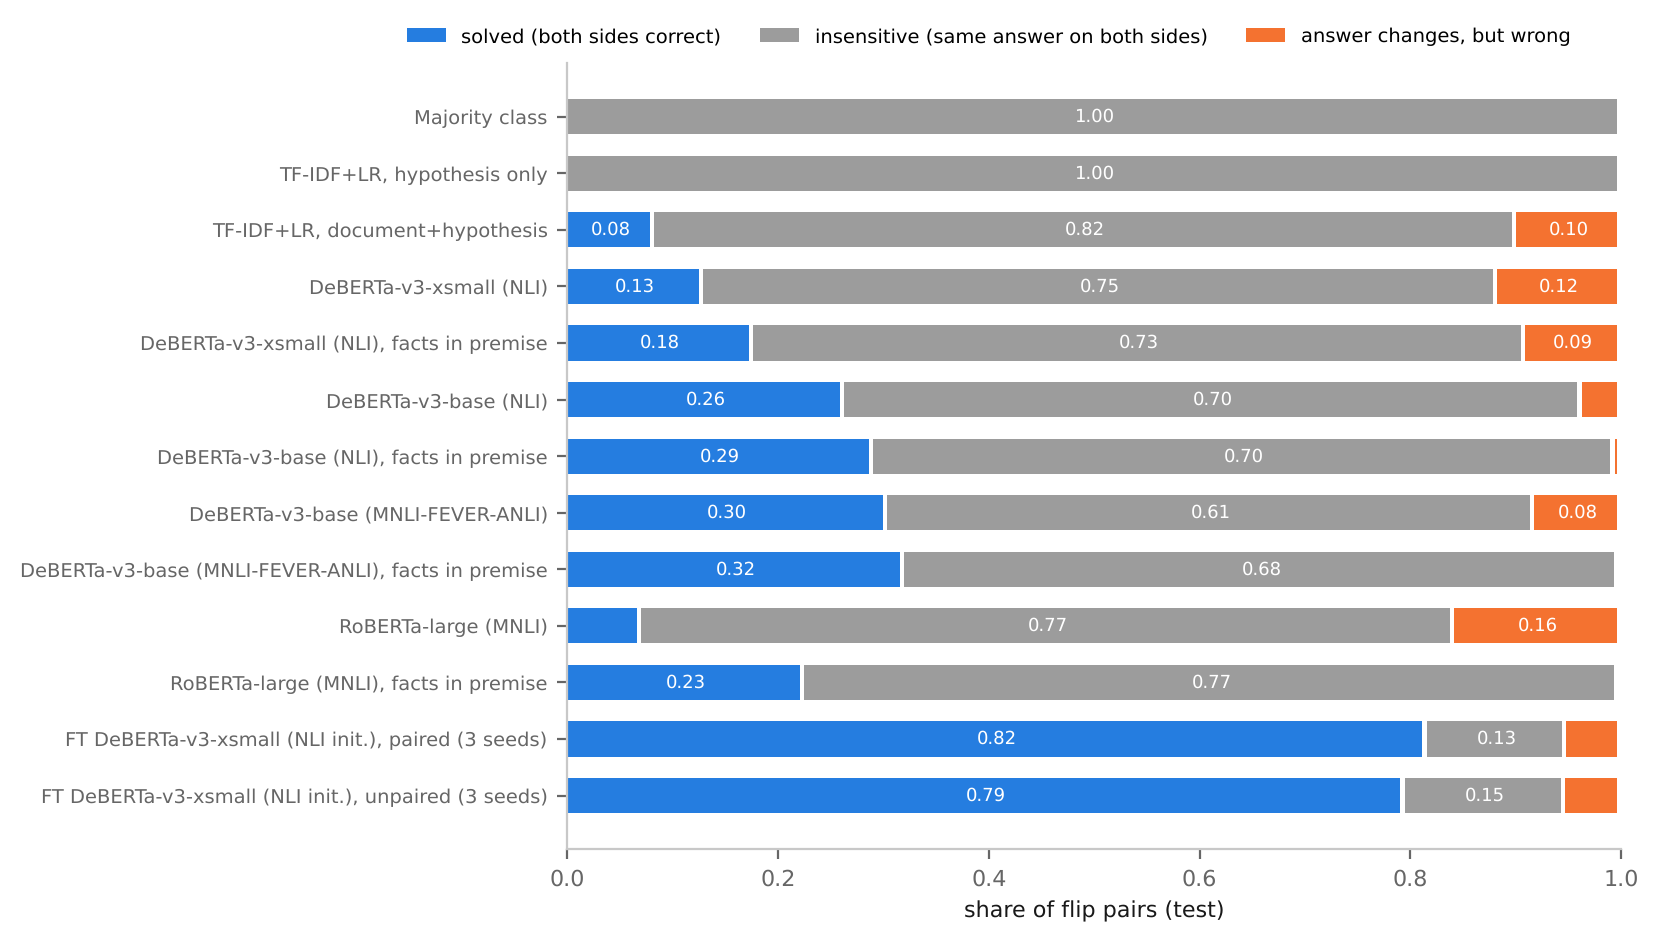
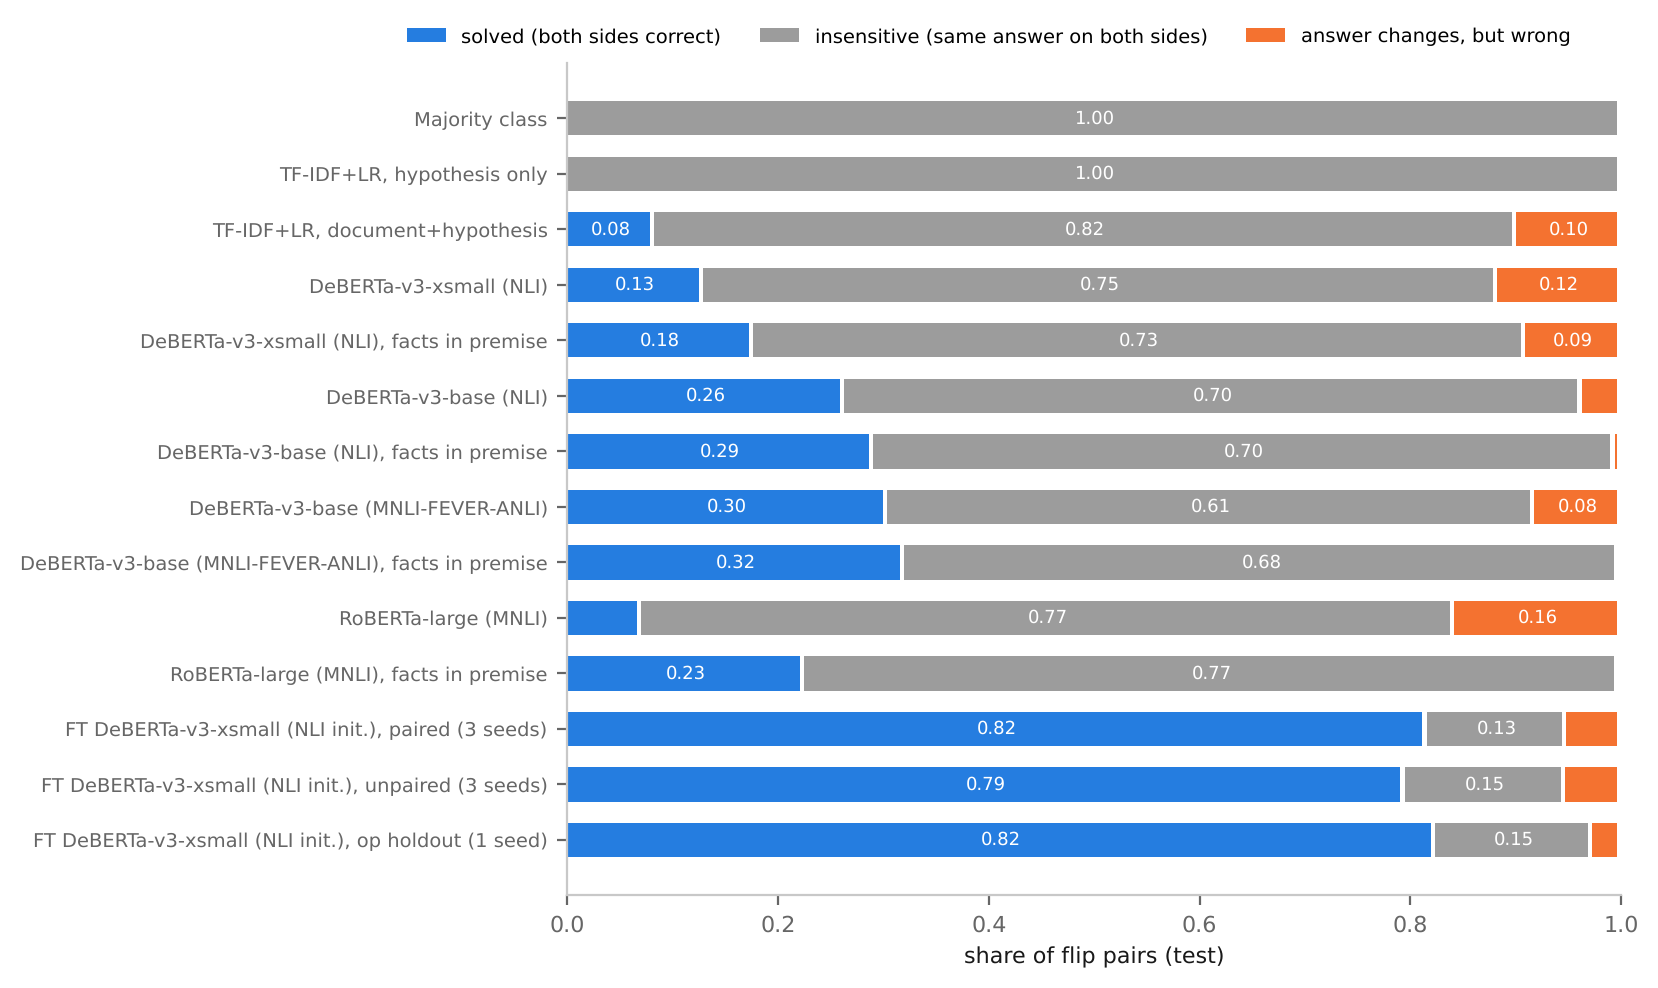
Extended analysis: operator hold-out section wording; regenerate with op_holdout_s0
Claude-Session: https://claude.ai/code/session_01GGpeb3aQtBq4JH6BHTfvnv

diff --git a/scripts/analyze_extended.py b/scripts/analyze_extended.py
@@ -401,9 +401,9 @@ L.append("")
 ho = [g for g in GROUPS if g.endswith("_op_holdout")]
 if ho:
     L += ["## 4. Operator hold-out (preregistered ablation)", "",
-          "Training excludes xref_redirect and date_cross pairs. Compared with the full-size paired condition is not "
-          "possible (different training size); the comparison below is with the unpaired and paired groups of the "
-          "same model, on the held-out and on the seen operators.", "",
+          "Training uses all training pairs except xref_redirect and date_cross (4,200 items), so it is not "
+          "size-matched with the paired and unpaired conditions (2,400 items), which did see both operators. The "
+          "question is whether sensitivity to an unseen edit type transfers from the other edit types.", "",
           "| Group | Seeds | xref_redirect | date_cross | Other flip operators (mean) |", "|---|---|---|---|---|"]
     for g in sorted(GROUPS):
         if not g.startswith(ho[0].replace("_op_holdout", "")):

diff --git a/results/EXTENDED_ANALYSIS.md b/results/EXTENDED_ANALYSIS.md
@@ -27,6 +27,7 @@ Difference = flip-pair accuracy(operator) − flip-pair accuracy(negation). Supp
 | zeroshot_nli-deberta-v3-base | -0.863 [-0.937, -0.780] | -0.863 [-0.937, -0.782] | -0.875 [-0.946, -0.798] | -0.875 [-0.946, -0.798] | yes |
 | zeroshot_DeBERTa-v3-base-mnli-fever-anli | -0.512 [-0.642, -0.370] | -0.662 [-0.772, -0.542] | -0.738 [-0.833, -0.636] | -0.738 [-0.833, -0.635] | yes |
 | zeroshot_roberta-large-mnli | +0.000 [+0.000, +0.000] | +0.000 [+0.000, +0.000] | +0.000 [+0.000, +0.000] | +0.000 [+0.000, +0.000] | no |
+| ft_nli-deberta-v3-xsmall_op_holdout | -0.050 [-0.106, -0.011] | -0.963 [-1.000, -0.916] | -0.238 [-0.338, -0.147] | -0.188 [-0.274, -0.103] | yes |
 | ft_nli-deberta-v3-xsmall_paired | -0.079 [-0.119, -0.046] | -0.138 [-0.187, -0.090] | -0.488 [-0.577, -0.402] | -0.333 [-0.414, -0.256] | yes |
 | ft_nli-deberta-v3-xsmall_unpaired | -0.062 [-0.104, -0.025] | -0.158 [-0.213, -0.105] | -0.542 [-0.626, -0.456] | -0.379 [-0.466, -0.292] | yes |
 
@@ -68,6 +69,7 @@ Dev and test are independent samples (independent bootstraps). Reserved vs. seen
 
 | Group | Dev acc. | Test acc. | Dev − test | Seen − reserved (raw) | Seen − reserved (operator-stratified) |
 |---|---|---|---|---|---|
+| ft_nli-deberta-v3-xsmall_op_holdout | 0.867 | 0.934 | -0.067 [-0.092, -0.044] | +0.012 [-0.010, +0.032] | +0.010 [-0.008, +0.026] |
 | ft_nli-deberta-v3-xsmall_paired | 0.838 | 0.904 | -0.066 [-0.091, -0.042] | +0.042 [+0.022, +0.061] | +0.038 [+0.019, +0.056] |
 | ft_nli-deberta-v3-xsmall_unpaired | 0.843 | 0.891 | -0.047 [-0.074, -0.022] | +0.041 [+0.019, +0.062] | +0.037 [+0.015, +0.057] |
 
@@ -147,6 +149,17 @@ Flip-pair accuracy by operator:
 | zeroshot_roberta-large-mnli_factsinpremise | – | 0.506 [0.487, 0.525] | 0.451 [0.429, 0.473] | 0.263 [0.240, 0.288] | 0.225 [0.198, 0.255] | 0.228 [0.200, 0.257] | 0.994 [0.985, 1.000] |
 | ft_nli-deberta-v3-xsmall_paired | 3 | 0.904 [0.893, 0.914] | 0.914 [0.905, 0.922] | 0.836 [0.819, 0.852] | 0.815 [0.793, 0.836] | 0.868 [0.847, 0.887] | 0.937 [0.921, 0.951] |
 | ft_nli-deberta-v3-xsmall_unpaired | 3 | 0.891 [0.880, 0.902] | 0.903 [0.893, 0.912] | 0.814 [0.796, 0.832] | 0.795 [0.770, 0.817] | 0.848 [0.826, 0.868] | 0.919 [0.902, 0.937] |
+| ft_nli-deberta-v3-xsmall_op_holdout | 1 | 0.934 [0.924, 0.943] | 0.942 [0.933, 0.950] | 0.874 [0.857, 0.892] | 0.824 [0.798, 0.849] | 0.851 [0.827, 0.876] | 0.975 [0.960, 0.988] |
+
+## 4. Operator hold-out (preregistered ablation)
+
+Training uses all training pairs except xref_redirect and date_cross (4,200 items), so it is not size-matched with the paired and unpaired conditions (2,400 items), which did see both operators. The question is whether sensitivity to an unseen edit type transfers from the other edit types.
+
+| Group | Seeds | xref_redirect | date_cross | Other flip operators (mean) |
+|---|---|---|---|---|
+| ft_nli-deberta-v3-xsmall_op_holdout | 1 | 0.037 [0.000, 0.084] | 0.812 [0.726, 0.897] | 0.921 |
+| ft_nli-deberta-v3-xsmall_paired | 3 | 0.862 [0.813, 0.910] | 0.667 [0.586, 0.744] | 0.810 |
+| ft_nli-deberta-v3-xsmall_unpaired | 3 | 0.842 [0.787, 0.895] | 0.621 [0.534, 0.708] | 0.785 |
 
 ## 5. How flip pairs fail (exploratory)
 
@@ -167,6 +180,7 @@ Each flip pair is either solved (both sides correct), *insensitive* (same predic
 | zeroshot_roberta-large-mnli_factsinpremise | 0.225 | 0.772 | 0.003 |
 | ft_nli-deberta-v3-xsmall_paired | 0.815 | 0.132 | 0.052 |
 | ft_nli-deberta-v3-xsmall_unpaired | 0.795 | 0.152 | 0.053 |
+| ft_nli-deberta-v3-xsmall_op_holdout | 0.824 | 0.149 | 0.027 |
 
 ## 6. Document complexity by operator (test, exploratory)
 
@@ -195,6 +209,7 @@ Preregistered occlusion hit@1 (sentence whose removal most lowers p(gold) is in 
 
 | System | hit@1 | Random-sentence hit rate | Top sentence = obligation | Strict hit@1 (non-obligation evidence) | Random, strict |
 |---|---|---|---|---|---|
+| ft_nli-deberta-v3-xsmall_op_holdout_s0 | 1.000 [1.000, 1.000] | 0.506 | 0.780 | 0.284 [0.228, 0.349] (n=232) | 0.294 |
 | ft_nli-deberta-v3-xsmall_paired_s0 | 1.000 [1.000, 1.000] | 0.489 | 0.907 | 0.126 [0.086, 0.171] (n=222) | 0.279 |
 | ft_nli-deberta-v3-xsmall_paired_s1 | 0.993 [0.983, 1.000] | 0.509 | 0.873 | 0.159 [0.115, 0.207] (n=227) | 0.295 |
 | ft_nli-deberta-v3-xsmall_paired_s2 | 1.000 [1.000, 1.000] | 0.491 | 0.927 | 0.097 [0.062, 0.137] (n=226) | 0.284 |
@@ -210,6 +225,7 @@ Preregistered occlusion hit@1 (sentence whose removal most lowers p(gold) is in 
 
 | System | Items | Header-free control correct | Obligation removed → insufficient | Decisive removed → label changes as expected | Non-decisive removed → label kept |
 |---|---|---|---|---|---|
+| ft_nli-deberta-v3-xsmall_op_holdout_s0 | 290 | 0.990 | 0.952 (n=290) | 0.915 (n=106) | 0.953 (n=739) |
 | ft_nli-deberta-v3-xsmall_paired_s0 | 272 | 0.915 | 0.982 (n=272) | 0.800 (n=90) | 0.904 (n=679) |
 | ft_nli-deberta-v3-xsmall_paired_s1 | 273 | 0.960 | 0.956 (n=273) | 0.879 (n=99) | 0.920 (n=662) |
 | ft_nli-deberta-v3-xsmall_paired_s2 | 273 | 0.956 | 0.993 (n=273) | 0.858 (n=106) | 0.953 (n=674) |
